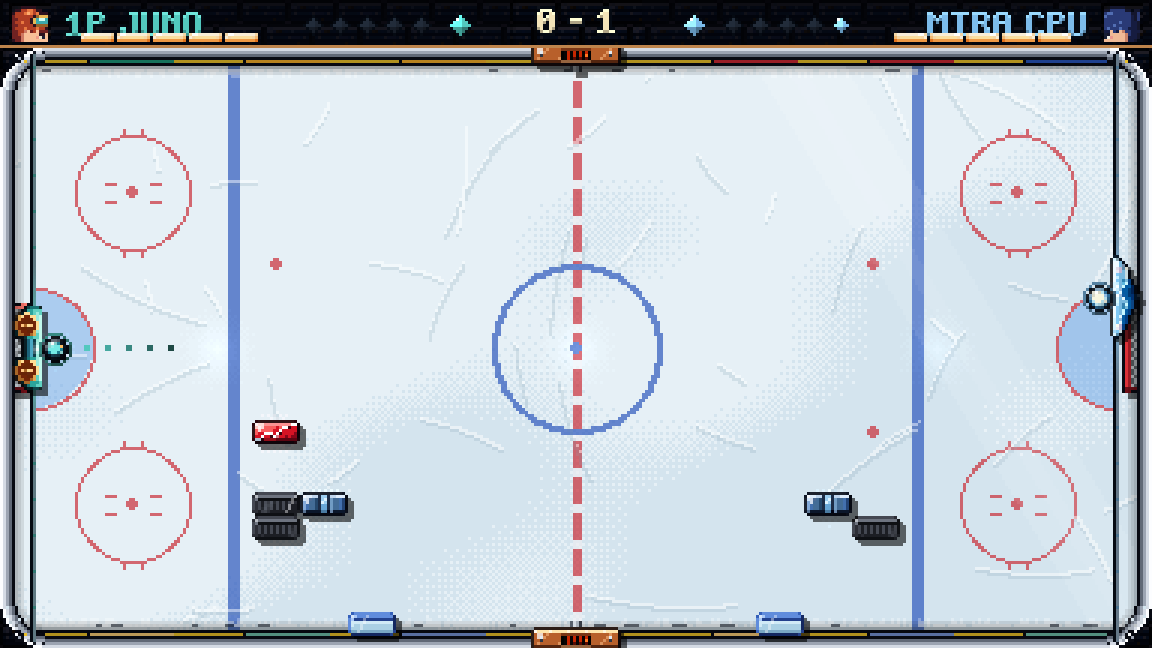
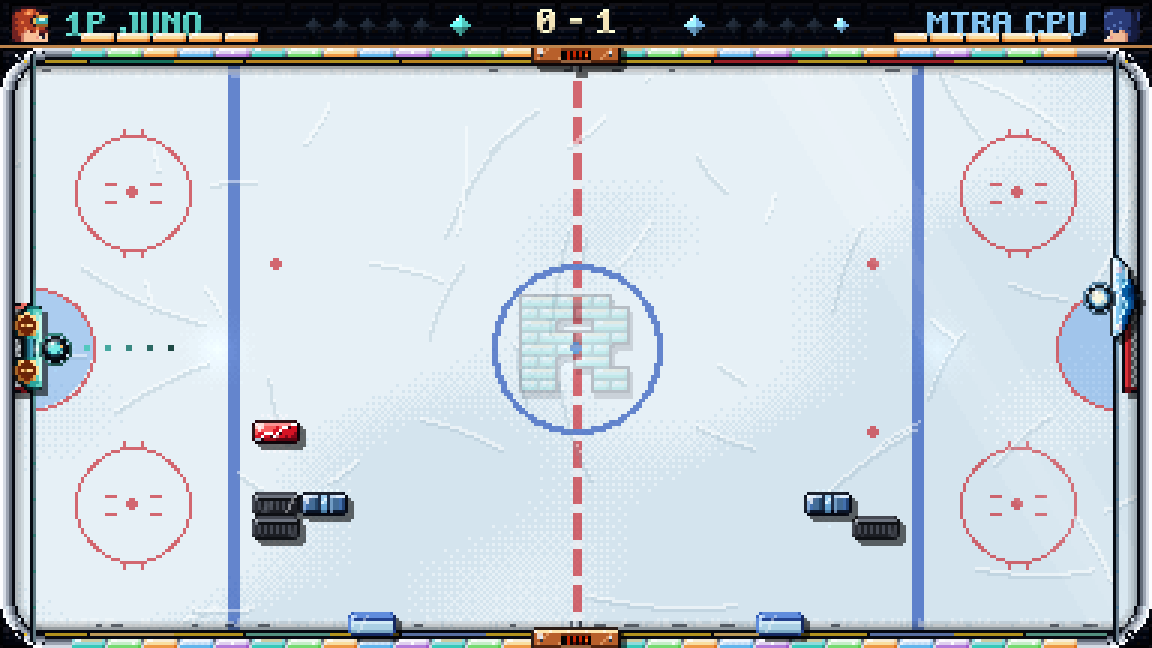
Playtest 0.4.1: the Versus tables' own touches, the Expedition's signpost and centred question mark, the heroes not yet aboard in shadow, EQUIPPED; new screenshots

diff --git a/README.md b/README.md
@@ -11,7 +11,7 @@ the same as a new player would.
 ## Getting it
 
 1. Download the installer:
-   [AVENGIS-Rebounded-Playtest-0.4.0-Setup.exe](https://github.com/Tracedicky/AVENGIS-Rebounded-Playtest/releases/latest/download/AVENGIS-Rebounded-Playtest-0.4.0-Setup.exe)
+   [AVENGIS-Rebounded-Playtest-0.4.1-Setup.exe](https://github.com/Tracedicky/AVENGIS-Rebounded-Playtest/releases/latest/download/AVENGIS-Rebounded-Playtest-0.4.1-Setup.exe)
    (Windows, about 65 MB). If you have an older playtest, it updates it.
 2. Run it and type in the password I gave you. It won't install without it. Please don't pass it on.
 3. If Windows says "Windows protected your PC", click **More info**, then **Run anyway**. The installer isn't signed
@@ -20,6 +20,13 @@ the same as a new player would.
 It installs just for you, keeps its own saves, and doesn't touch anything else.
 
 <p align="center"><img src="installer.gif" width="164" alt="The installer"></p>
+
+## What's new in 0.4.1
+
+- The Versus tables carry Rebounded's own touches: the logo's R at the centre spot, and the logo's bricks along the boards.
+- An event on the Expedition's map is a signpost now, and the map's question mark sits centred.
+- Heroes you haven't met yet show as their own figure in shadow, not a flat shape.
+- A reward you put on now says EQUIPPED.
 
 ## What's new in 0.4.0
 
@@ -71,4 +78,4 @@ saves too.
 
 Made by Aven (AVENGIS). The music and sound were written for the Mega Drive's sound chips.
 
[2 lines of base64/hex data omitted]
